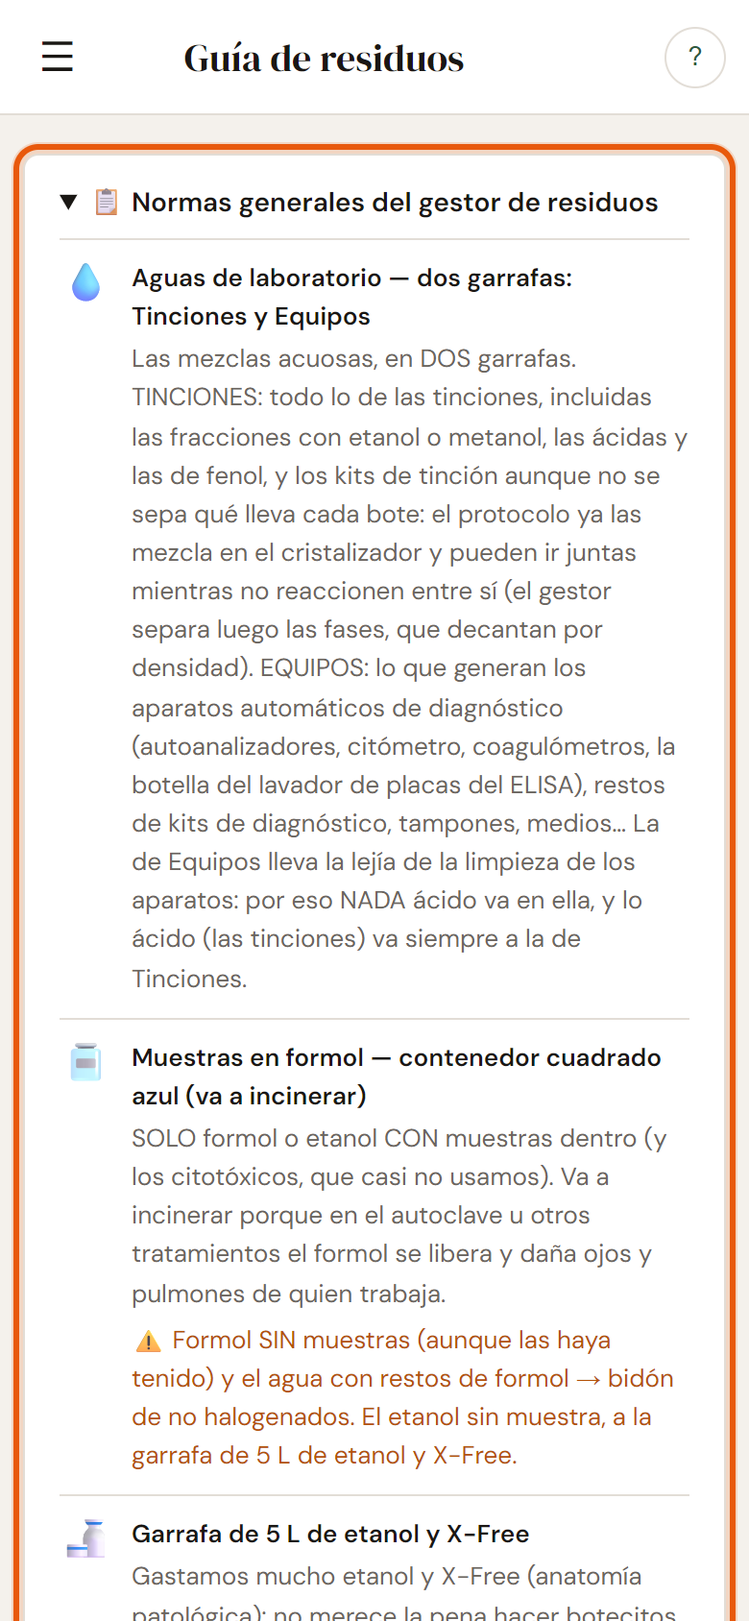
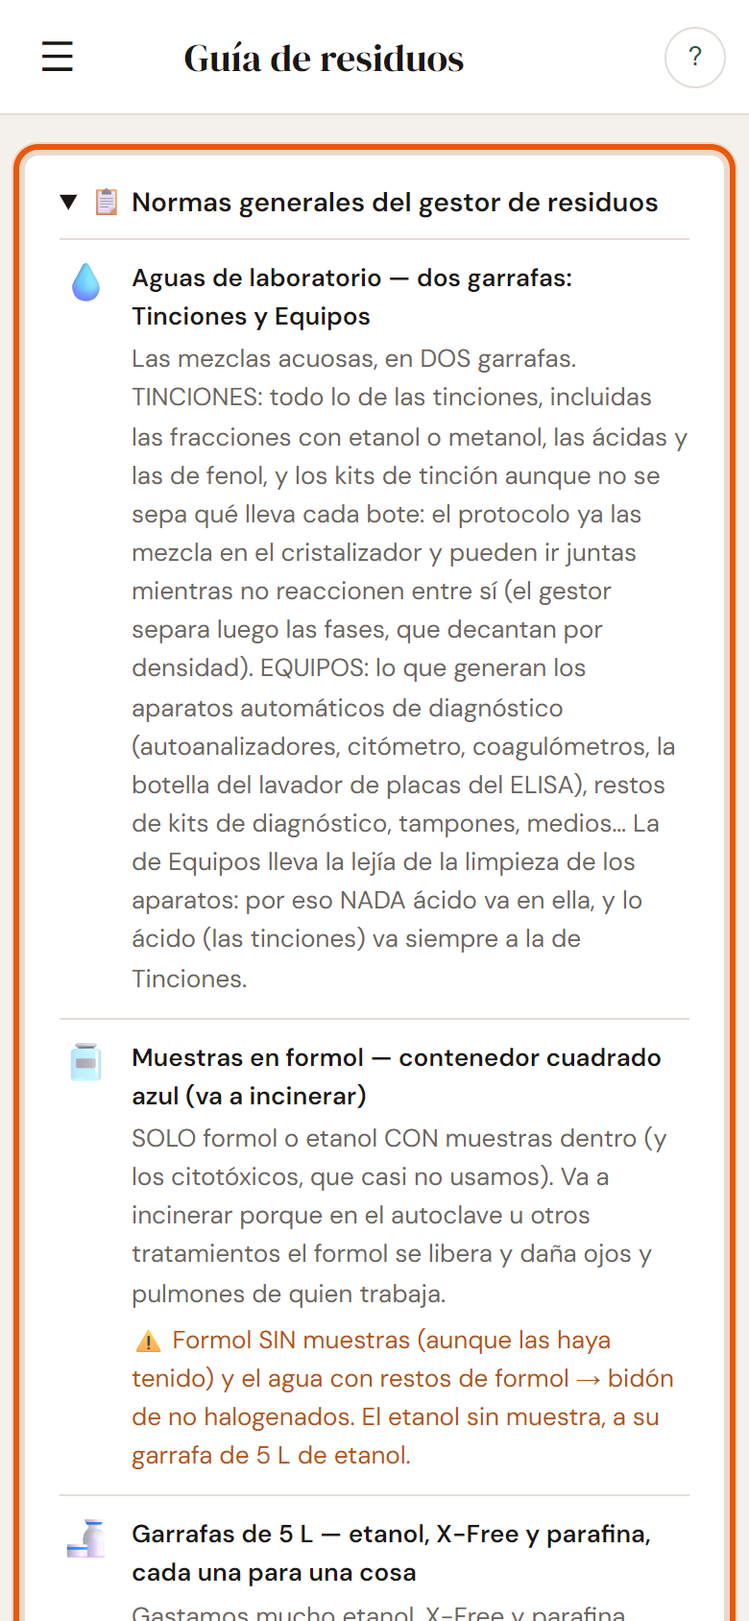
Residuos: tres garrafas de 5 L (etanol, X-Free, parafina) y punzantes en 203 y 207
Como las bolsas, cada garrafa es para una sola cosa. La parafina usada
deja el bidón de no halogenados y va a su garrafa. Datos ya aplicados;
capturas de RES-1 rehechas.

Changed region(s): [[0.1846, 0.8934, 0.8923, 1.0], [0.8308, 0.8626, 0.8923, 0.8934]]

diff --git a/js/residuos.js b/js/residuos.js
@@ -38,11 +38,11 @@ const _NORMAS_GESTOR = [
   {
     icon: '🫙', titulo: 'Muestras en formol — contenedor cuadrado azul (va a incinerar)',
     texto: 'SOLO formol o etanol CON muestras dentro (y los citotóxicos, que casi no usamos). Va a incinerar porque en el autoclave u otros tratamientos el formol se libera y daña ojos y pulmones de quien trabaja.',
-    ojo: 'Formol SIN muestras (aunque las haya tenido) y el agua con restos de formol → bidón de no halogenados. El etanol sin muestra, a la garrafa de 5 L de etanol y X-Free.',
+    ojo: 'Formol SIN muestras (aunque las haya tenido) y el agua con restos de formol → bidón de no halogenados. El etanol sin muestra, a su garrafa de 5 L de etanol.',
   },
   {
-    icon: '🍶', titulo: 'Garrafa de 5 L de etanol y X-Free',
-    texto: 'Gastamos mucho etanol y X-Free (anatomía patológica): no merece la pena hacer botecitos para los bidones. Sus restos se vierten juntos en garrafas de 5 L, las mismas en que viene el etanol, y se cierran con parafilm.',
+    icon: '🍶', titulo: 'Garrafas de 5 L — etanol, X-Free y parafina, cada una para una cosa',
+    texto: 'Gastamos mucho etanol, X-Free y parafina (anatomía patológica): no merece la pena hacer botecitos para los bidones. Sus restos se vierten en garrafas de 5 L, las mismas en que viene el etanol, y se cierran con parafilm. Como las bolsas, cada garrafa es para UNA sola cosa: una de etanol, otra de X-Free y otra de parafina; no se mezclan.',
     ojo: 'Solo valen garrafas con el símbolo UN (las del etanol); las de X-Free no sirven, son de un plástico peor.',
   },
   {
@@ -168,7 +168,7 @@ const _ARBOL_RESIDUOS = {
     opciones: [
       { texto: 'Sí, la muestra está dentro', hoja: 'Muestras en formol' },
       { texto: 'No, es solo el formol (aunque haya tenido muestra)', hoja: 'Bidón no halogenados' },
-      { texto: 'No, es solo el etanol (aunque haya tenido muestra)', hoja: 'Garrafa etanol y X-Free' },
+      { texto: 'No, es solo el etanol (aunque haya tenido muestra)', hoja: 'Garrafa 5 L - Etanol' },
     ],
   },
   solido: {
@@ -188,11 +188,19 @@ const _ARBOL_RESIDUOS = {
       { texto: '🎨 De una tinción (también los kits de tinción)', hoja: 'Aguas Laboratorio - Tinciones' },
       { texto: '🔬 De un aparato o kit de diagnóstico, tampones, medios, PCR…', hoja: 'Aguas Laboratorio - Equipos' },
       { texto: '🧽 Lejía diluida de limpiar', hoja: 'Fregadero' },
-      { texto: '🍶 Restos de etanol o de X-Free', hoja: 'Garrafa etanol y X-Free' },
+      { texto: '🍶 Restos de etanol, de X-Free o de parafina', ir: 'garrafa5' },
       { texto: '🧪 Otro disolvente: formol sin muestra, xilol, isopropanol, cloroformo…', ir: 'disolvente' },
       { texto: '⚗ Un ácido que no es de tinción', hoja: 'Bidón ácidos' },
       { texto: '🔥 Un oxidante: agua oxigenada, permanganato, ácido peryódico…', hoja: 'Reactivos de laboratorio' },
       { texto: '🤷 Otro reactivo / no lo sé', ir: 'dudo' },
+    ],
+  },
+  garrafa5: {
+    pregunta: '¿Qué es? Cada garrafa de 5 L es para una sola cosa.',
+    opciones: [
+      { texto: 'Etanol', hoja: 'Garrafa 5 L - Etanol' },
+      { texto: 'X-Free (aunque lleve restos de etanol)', hoja: 'Garrafa 5 L - X-Free' },
+      { texto: 'Parafina', hoja: 'Garrafa 5 L - Parafina' },
     ],
   },
   disolvente: {
@@ -217,9 +225,11 @@ const _ARBOL_HOJAS = {
   'Basura normal': { icon: '🗑', sinContenedor: true, porque: 'Solo lleva trazas fijadas: va a la basura normal. Los portas, bien protegidos para que nadie se corte; si no pueden ir a la basura, al contenedor amarillo de punzantes.' },
   'Residuo Cortante': { icon: '✂', porque: 'Contenedor amarillo de punzantes: todo lo que corta o pincha, esté contaminado o no.' },
   'Muestras en formol': { icon: '🫙', porque: 'Contenedor rígido azul, va a incinerar: muestras con su formol o etanol dentro (y los citotóxicos, que casi no usamos). En autoclave el formol se liberaría y dañaría ojos y pulmones, y un sólido dentro de un líquido revienta. La tapa se apoya, nunca se cierra del todo.' },
-  'Bidón no halogenados': { icon: '🧪', porque: 'Bidón de ballesta del 207 para disolventes no halogenados: el formol que ya no lleva la muestra, xilol, isopropanol… El etanol y el X-Free van a su garrafa de 5 L.' },
+  'Bidón no halogenados': { icon: '🧪', porque: 'Bidón de ballesta del 207 para disolventes no halogenados: el formol que ya no lleva la muestra, xilol, isopropanol… El etanol, el X-Free y la parafina van cada uno a su garrafa de 5 L.' },
   'Bidón halogenados': { icon: '🧪', porque: 'Bidón de ballesta del 207 para los disolventes con cloro (cloroformo, Carnoy…): van separados de los no halogenados.' },
-  'Garrafa etanol y X-Free': { icon: '🍶', porque: 'Gastamos mucho etanol y X-Free (anatomía patológica): sus restos se vierten juntos en garrafas de 5 L, cerradas con parafilm. Solo valen garrafas con el símbolo UN, como las del etanol; las de X-Free no (son de un plástico peor).' },
+  'Garrafa 5 L - Etanol': { icon: '🍶', porque: 'Garrafa de 5 L solo para restos de etanol, cerrada con parafilm. El X-Free y la parafina van cada uno a su garrafa. Solo valen garrafas con el símbolo UN, como las del etanol.' },
+  'Garrafa 5 L - X-Free': { icon: '🍶', porque: 'Garrafa de 5 L solo para restos de X-Free, cerrada con parafilm. Ojo: tiene que ser una garrafa de etanol (con el símbolo UN); la garrafa en que viene el X-Free no sirve, es de un plástico peor.' },
+  'Garrafa 5 L - Parafina': { icon: '🕯', porque: 'Garrafa de 5 L solo para la parafina usada, cerrada con parafilm. Los bloques con tejido y los cortes solo llevan trazas de X-Free: esos van a la basura normal.' },
   'Bidón vidrio vacío': { icon: '🍾', porque: 'Bidón de ballesta del 207 para envases de vidrio vacíos que contuvieron productos químicos. Los de plástico y los metálicos van a sus bolsas.' },
   'Bolsa químicos - Envases de plástico': { icon: '🛍', porque: 'La bolsa marcada con la X de «envases que contienen restos de sustancias peligrosas»: solo envases de plástico vacíos, bien cerrados para que no se acumule líquido en el fondo. Los metálicos y los guantes o papel van cada uno a su bolsa.' },
   'Bolsa químicos - Envases metálicos': { icon: '🥫', porque: 'La bolsa marcada con la X de «envases metálicos»: solo envases de aluminio (o de otro metal) vacíos, bien cerrados. Los de plástico van a la otra bolsa.' },
@@ -327,7 +337,7 @@ const VIDEOS_RESIDUOS = [
   { id: 'azul-y-negro', titulo: 'Contenedores azul y negro', inicio: 127.88,
     categorias: ['Muestras en formol', 'Contenedor negro (autoclave)'] },
   { id: 'etanol-y-xfree', titulo: 'Etanol y X-Free', inicio: 234.33,
-    categorias: ['Garrafa etanol y X-Free'] },
+    categorias: ['Garrafa 5 L - Etanol', 'Garrafa 5 L - X-Free', 'Garrafa 5 L - Parafina'] },
   { id: 'bolsa-207', titulo: 'La bolsa del 207', inicio: 301.26,
     categorias: ['Bolsa químicos - Envases de plástico', 'Bolsa químicos - Envases metálicos', 'Bolsa químicos - Guantes, papel y absorbentes'] },
   { id: 'punzantes', titulo: 'Contenedor amarillo de punzantes', inicio: 377.09,
@@ -1391,7 +1401,7 @@ de estos contenedores existen físicamente aunque no aparezcan en las listas de 
 activos de arriba — puedes nombrarlos por su descripción (color, forma, rótulo):
 ${_normasGestorTexto()}
 
-KITS DE TINCIÓN cuyos botes no se sabe qué llevan (todo acaba junto en el cristalizador): por defecto van a la garrafa de Tinciones. Pregunta antes qué kit/tinción es, y si en su ficha de seguridad aparece algo de esto, sepáralo: oxidantes (ácido peryódico, permanganato), ácido pícrico/Bouin o DAB → salvavidas "Reactivos de laboratorio"; xileno o formol (pasos del procesado, no tinción) → Bidón no halogenados; el X-Free → Garrafa etanol y X-Free. Los kits que lleven plata, mercurio o cromo/dicromato son kits diagnósticos y van también a la garrafa de Tinciones (decisión de Gestión, 2026-10).
+KITS DE TINCIÓN cuyos botes no se sabe qué llevan (todo acaba junto en el cristalizador): por defecto van a la garrafa de Tinciones. Pregunta antes qué kit/tinción es, y si en su ficha de seguridad aparece algo de esto, sepáralo: oxidantes (ácido peryódico, permanganato), ácido pícrico/Bouin o DAB → salvavidas "Reactivos de laboratorio"; xileno o formol (pasos del procesado, no tinción) → Bidón no halogenados; el X-Free → Garrafa 5 L - X-Free. Los kits que lleven plata, mercurio o cromo/dicromato son kits diagnósticos y van también a la garrafa de Tinciones (decisión de Gestión, 2026-10).
 
 REGLAS QUE NUNCA PUEDES SALTARTE (tanto si el caso está resuelto como si no):
 - Nunca digas que se puede verter por el desagüe ni tirar a la basura general, SALVO que el
@@ -1673,6 +1683,7 @@ function _abrirAdicionPorNfc(categoria, lab) {
     const DIVIDIDAS = {
       'Aguas Laboratorio': { prefijo: 'Aguas Laboratorio', que: 'garrafas de aguas (Tinciones y Equipos)' },
       'Bolsa plástica (químicos)': { prefijo: 'Bolsa químicos', que: 'bolsas de químicos (plástico, metálicos y guantes/papel)' },
+      'Garrafa etanol y X-Free': { prefijo: 'Garrafa 5 L', que: 'garrafas de 5 L (etanol, X-Free y parafina)' },
     };
     let c = DATA.contenedoresResiduo.find(x => x.Categoria === categoria && activo(x));
     const div = DIVIDIDAS[categoria];

diff --git a/supabase/functions/gestionar-residuo/index.ts b/supabase/functions/gestionar-residuo/index.ts
@@ -134,7 +134,7 @@ const GHS_INCOMPATIBLES: [string, string][] = [
 // granel en garrafa). En bidones azules, bolsas, cubos y punzantes cada cosa va en
 // su propio envase cerrado: ahí no hay reacción posible y la matriz bloqueaba sin
 // motivo (p. ej. etanol:éter en el salvavidas después de un permanganato).
-const CATEGORIAS_A_GRANEL = ["Aguas Laboratorio - Tinciones", "Aguas Laboratorio - Equipos", "Bidón no halogenados", "Bidón ácidos", "Bidón halogenados", "Garrafa etanol y X-Free"];
+const CATEGORIAS_A_GRANEL = ["Aguas Laboratorio - Tinciones", "Aguas Laboratorio - Equipos", "Bidón no halogenados", "Bidón ácidos", "Bidón halogenados", "Garrafa 5 L - Etanol", "Garrafa 5 L - X-Free", "Garrafa 5 L - Parafina"];
 function contenidoSeMezcla(categoria: string | null, formato: string | null): boolean {
   const f = (formato || "").toLowerCase();
   if (f.includes("garrafa")) return true;
@@ -192,8 +192,8 @@ const WARNINGS_FORMATO: { match: string; texto: string }[] = [
 // Normas generales del gestor de residuos (2026-10-01). Réplica de _NORMAS_GESTOR
 // en js/residuos.js (consultorio y tarjeta de la Guía): mantener las dos iguales.
 const NORMAS_GESTOR = `- Aguas de laboratorio: las mezclas acuosas, en DOS garrafas. TINCIONES: todo lo de las tinciones, incluidas las fracciones con etanol o metanol, las ácidas y las de fenol, y los kits de tinción aunque no se sepa qué lleva cada bote: el protocolo ya las mezcla en el cristalizador y pueden ir juntas mientras no reaccionen entre sí (el gestor separa luego las fases, que decantan por densidad). EQUIPOS: lo que generan los aparatos automáticos de diagnóstico (autoanalizadores, citómetro, coagulómetros, la botella del lavador de placas del ELISA), restos de kits de diagnóstico, tampones, medios… La de Equipos lleva la lejía de la limpieza de los aparatos: por eso NADA ácido va en ella, y lo ácido (las tinciones) va siempre a la de Tinciones.
-- Muestras en formol — contenedor cuadrado azul (va a incinerar): SOLO formol o etanol CON muestras dentro (y los citotóxicos, que casi no usamos). Va a incinerar porque en el autoclave u otros tratamientos el formol se libera y daña ojos y pulmones de quien trabaja. OJO: Formol SIN muestras (aunque las haya tenido) y el agua con restos de formol → bidón de no halogenados ("Bidón no halogenados"). El etanol sin muestra, a la garrafa de 5 L de etanol y X-Free.
-- Garrafa de 5 L de etanol y X-Free ("Garrafa etanol y X-Free"): gastamos mucho etanol y X-Free (anatomía patológica): no merece la pena hacer botecitos para los bidones. Sus restos se vierten juntos en garrafas de 5 L, las mismas en que viene el etanol, y se cierran con parafilm. OJO: solo valen garrafas con el símbolo UN (las del etanol); las de X-Free no sirven, son de un plástico peor.
+- Muestras en formol — contenedor cuadrado azul (va a incinerar): SOLO formol o etanol CON muestras dentro (y los citotóxicos, que casi no usamos). Va a incinerar porque en el autoclave u otros tratamientos el formol se libera y daña ojos y pulmones de quien trabaja. OJO: Formol SIN muestras (aunque las haya tenido) y el agua con restos de formol → bidón de no halogenados ("Bidón no halogenados"). El etanol sin muestra, a su garrafa de 5 L de etanol ("Garrafa 5 L - Etanol").
+- Garrafas de 5 L — etanol, X-Free y parafina, cada una para una cosa ("Garrafa 5 L - Etanol", "Garrafa 5 L - X-Free", "Garrafa 5 L - Parafina"): gastamos mucho etanol, X-Free y parafina (anatomía patológica): no merece la pena hacer botecitos para los bidones. Sus restos se vierten en garrafas de 5 L, las mismas en que viene el etanol, y se cierran con parafilm. Como las bolsas, cada garrafa es para UNA sola cosa: una de etanol, otra de X-Free y otra de parafina; no se mezclan. OJO: solo valen garrafas con el símbolo UN (las del etanol); las de X-Free no sirven, son de un plástico peor.
 - Bidón de envases de vidrio vacíos ("Bidón vidrio vacío"): bidón de ballesta del 207 para los envases de vidrio vacíos que contuvieron productos químicos.
 - Bolsas de químicos — tres bolsas, cada una para una cosa: las bolsas son iguales, pero cada una se marca con una X en su etiqueta para UNA sola cosa: (1) envases de plástico vacíos que contuvieron sustancias peligrosas ("Bolsa químicos - Envases de plástico"); (2) envases metálicos (aluminio) vacíos que las contuvieron ("Bolsa químicos - Envases metálicos"); (3) guantes, papel, filtros, absorbentes, ropa de protección… manchados con sustancias peligrosas ("Bolsa químicos - Guantes, papel y absorbentes"). La casilla de decapado y pintura no nos toca. OJO: mira la X antes de echar nada: la misma bolsa NO vale para las tres cosas. Que NO se acumule líquido en el fondo: los frascos, botellas y botes, bien cerrados. Los guantes o el papel manchados de disolventes volátiles, antes en una bolsa zip (la bolsa va abierta). Un guante que no ha tocado nada peligroso no va aquí.
 - Cómo reconocer los contenedores por el color: contenedores rígidos que se cierran para siempre: NEGROS → van a autoclavar; AZULES del mismo estilo → van a incinerar. Los AZULES DE BALLESTA y las BOLSAS → químicos.
@@ -206,11 +206,13 @@ const NORMAS_GESTOR = `- Aguas de laboratorio: las mezclas acuosas, en DOS garra
 const MOTIVO_CATEGORIA: Record<string, string> = {
   "Aguas Laboratorio - Tinciones": "La garrafa de Tinciones recoge todo lo de las tinciones, que suele ser ácido: por eso no va con la de Equipos, que lleva lejía.",
   "Aguas Laboratorio - Equipos": "La garrafa de Equipos recoge lo que generan los aparatos de diagnóstico (incluida la botella del lavador del ELISA), kits y tampones; lleva la lejía de su limpieza, así que nada ácido.",
-  "Bidón no halogenados": "El bidón de no halogenados recoge los disolventes sin cloro, también el formol sin muestra; el etanol y el X-Free van a su garrafa de 5 L.",
+  "Bidón no halogenados": "El bidón de no halogenados recoge los disolventes sin cloro, también el formol sin muestra; el etanol, el X-Free y la parafina van cada uno a su garrafa de 5 L.",
   "Bidón halogenados": "El bidón de halogenados es solo para disolventes con cloro (cloroformo, Carnoy…).",
   "Bidón ácidos": "El bidón de ácidos recoge los ácidos que no son de tinción.",
   "Bidón vidrio vacío": "El bidón de vidrio es solo para envases de vidrio vacíos que contuvieron productos químicos.",
-  "Garrafa etanol y X-Free": "La garrafa de 5 L es solo para restos de etanol y de X-Free.",
+  "Garrafa 5 L - Etanol": "Esta garrafa de 5 L es solo para restos de etanol; el X-Free y la parafina van cada uno a su garrafa.",
+  "Garrafa 5 L - X-Free": "Esta garrafa de 5 L es solo para restos de X-Free; el etanol y la parafina van cada uno a su garrafa.",
+  "Garrafa 5 L - Parafina": "Esta garrafa de 5 L es solo para la parafina usada; el etanol y el X-Free van cada uno a su garrafa.",
   "Contenedor negro (autoclave)": "El contenedor negro, con bolsa de autoclave, es para residuos biosanitarios: cultivos, muestras, material que las tocó y ropa o EPI con sangre.",
   "Muestras en formol": "El contenedor cuadrado azul es SOLO para formol o etanol con la muestra dentro: va a incinerar.",
   "Bolsa químicos - Envases de plástico": "Esta bolsa está marcada solo para envases de plástico vacíos que contuvieron químicos; los metálicos y los guantes o papel van cada uno a su bolsa.",
@@ -291,7 +293,7 @@ ${excepciones}
 NORMAS GENERALES DEL GESTOR DE RESIDUOS (acordadas con la empresa gestora; para juzgar un texto libre mandan sobre lo que sugiera el catálogo; algunos de estos contenedores existen aunque no estén en la lista de activos):
 ${NORMAS_GESTOR}
 
-KITS DE TINCIÓN cuyos botes no se sabe qué llevan (todo acaba junto en el cristalizador): por defecto van a la garrafa de Tinciones. Pregunta antes qué kit/tinción es, y si en su ficha de seguridad aparece algo de esto, sepáralo: oxidantes (ácido peryódico, permanganato), ácido pícrico/Bouin o DAB → salvavidas "Reactivos de laboratorio"; xileno o formol (pasos del procesado, no tinción) → Bidón no halogenados; el X-Free → Garrafa etanol y X-Free. Los kits que lleven plata, mercurio o cromo/dicromato son kits diagnósticos y van también a la garrafa de Tinciones (decisión de Gestión, 2026-10).
+KITS DE TINCIÓN cuyos botes no se sabe qué llevan (todo acaba junto en el cristalizador): por defecto van a la garrafa de Tinciones. Pregunta antes qué kit/tinción es, y si en su ficha de seguridad aparece algo de esto, sepáralo: oxidantes (ácido peryódico, permanganato), ácido pícrico/Bouin o DAB → salvavidas "Reactivos de laboratorio"; xileno o formol (pasos del procesado, no tinción) → Bidón no halogenados; el X-Free → Garrafa 5 L - X-Free. Los kits que lleven plata, mercurio o cromo/dicromato son kits diagnósticos y van también a la garrafa de Tinciones (decisión de Gestión, 2026-10).
 
 REGLAS:
 - El residuo debe corresponder a la categoría del contenedor de destino. Si es un tipo del catálogo cuyo "Contenedor asignado" NO coincide con la categoría del contenedor de destino, es INCOMPATIBLE (salvo que esté en los casos aprobados de arriba).

diff --git a/scripts/garrafas_y_punzantes_2026_11.py b/scripts/garrafas_y_punzantes_2026_11.py
@@ -1,0 +1,82 @@
+"""
+Garrafas de 5 L y punzantes (2026-11-26, indicaciones de la usuaria).
+
+1. Las garrafas de 5 L son como las bolsas: cada una es para UNA cosa. La
+   categoría «Garrafa etanol y X-Free» se divide en tres:
+     Garrafa 5 L - Etanol / Garrafa 5 L - X-Free / Garrafa 5 L - Parafina
+   La garrafa que ya estaba dada de alta (207, bajo la encimera) pasa a ser la de
+   etanol y se dan de alta las otras dos en el mismo sitio. La «Parafina con restos
+   de X-Free» (antes en el bidón de no halogenados) va a la de parafina.
+2. Contenedores amarillos de punzantes («Residuo Cortante») en los labs 203 y 207.
+
+Idempotente. Uso:
+  python scripts/garrafas_y_punzantes_2026_11.py            (simulación)
+  python scripts/garrafas_y_punzantes_2026_11.py --aplicar  (guarda)
+"""
+import sys, datetime
+sys.path.insert(0, 'scripts')
+from base import conectar, generar_id
+
+DRY_RUN = "--aplicar" not in sys.argv   # simulación por defecto
+
+ANTES = 'Garrafa etanol y X-Free'
+ETANOL, XFREE, PARAFINA = 'Garrafa 5 L - Etanol', 'Garrafa 5 L - X-Free', 'Garrafa 5 L - Parafina'
+CORTANTE = 'Residuo Cortante'
+
+TIPOS = {  # id_residuo → (categoría, descripción nueva o None)
+    'R015': (ETANOL, None),
+    'R016': (XFREE, None),
+    'R001': (PARAFINA, 'Parafina usada, con restos de sustituto de xileno (X-Free), tras el procesado histológico. '
+                       'Va a su garrafa de 5 L; los bloques con tejido y los cortes van a la basura normal.'),
+}
+NUEVOS = [  # (categoría, lab, zona, formato)
+    (XFREE, '207', 'Bajo la encimera', 'Garrafa 5L'),
+    (PARAFINA, '207', 'Bajo la encimera', 'Garrafa 5L'),
+    (CORTANTE, '203', None, 'Contenedor rígido amarillo'),
+    (CORTANTE, '207', None, 'Contenedor rígido amarillo'),
+]
+
+conn = conectar(); cur = conn.cursor()
+cambios = 0
+
+def hacer(msg, sql, args):
+    global cambios
+    print(msg); cambios += 1
+    if not DRY_RUN:
+        cur.execute(sql, args)
+
+for tabla, col in (('contenedores_residuo', 'categoria'), ('excepciones_residuo_ia', 'categoria_contenedor')):
+    cur.execute(f"select count(*) from {tabla} where {col}=%s", (ANTES,))
+    n = cur.fetchone()[0]
+    if n:
+        hacer(f"{tabla}: {n} × «{ANTES}» → «{ETANOL}»", f"update {tabla} set {col}=%s where {col}=%s", (ETANOL, ANTES))
+
+for id_, (cat, desc) in TIPOS.items():
+    cur.execute("select nombre, contenedor_tipo, descripcion from tipos_residuo where id_residuo=%s", (id_,))
+    fila = cur.fetchone()
+    if not fila: print(f"⚠ NO ENCONTRADO: {id_}"); continue
+    if fila[1] == cat and (desc is None or fila[2] == desc): continue
+    hacer(f"{id_}  {fila[0]}  [{fila[1]} → {cat}]{'  (+descripción)' if desc else ''}",
+          "update tipos_residuo set contenedor_tipo=%s, descripcion=coalesce(%s, descripcion) where id_residuo=%s",
+          (cat, desc, id_))
+
+cur.execute("select count(*) from tipos_residuo where contenedor_tipo=%s", (ANTES,))
+n = cur.fetchone()[0]
+if n: print(f"⚠ quedan {n} tipos en «{ANTES}» sin garrafa asignada")
+
+hoy = datetime.date.today()
+for cat, lab, zona, formato in NUEVOS:
+    cur.execute("select 1 from contenedores_residuo where categoria=%s and lab=%s and estado='activo'", (cat, lab))
+    if cur.fetchone(): continue
+    hacer(f"+ contenedor  {cat}  lab {lab} · {zona or '—'} · {formato}",
+          """insert into contenedores_residuo
+             (id_contenedor, categoria, lab, zona, formato, nivel, estado, fecha_apertura, fecha_actualizacion, actualizado_por)
+             values (%s,%s,%s,%s,%s,'vacío','activo',%s,now(),'Paloma Fernández')""",
+          (generar_id('RC'), cat, lab, zona, formato, hoy))
+
+if DRY_RUN:
+    conn.rollback()
+    print(f"\nSIMULACIÓN: {cambios} cambios. Ejecuta con --aplicar para guardarlos.")
+else:
+    conn.commit()
+    print(f"\nGuardado: {cambios} cambios.")

diff --git a/scripts/contenedores_reales_2026_11.py b/scripts/contenedores_reales_2026_11.py
@@ -20,6 +20,9 @@ Ajusta las categorías y los contenedores de residuos a los contenedores reales
 No toca las garrafas de colorantes ni los de punzantes (no consta en qué
 laboratorios hay): se dan de alta desde la app.
 
+⚠ NO volver a ejecutarlo: la garrafa de etanol y X-Free se dividió en tres después
+(garrafas_y_punzantes_2026_11.py) y este script la volvería a crear.
+
 Idempotente. Uso:
   python scripts/contenedores_reales_2026_11.py            (simulación)
   python scripts/contenedores_reales_2026_11.py --aplicar  (guarda)

diff --git a/CLAUDE.md b/CLAUDE.md
@@ -64,7 +64,7 @@ ya no lo usa nada; se puede revocar si se quiere.
 - `reorganizar_ubicaciones_2026_11.py` — recolocación (una vez, ya ejecutada el 2026-11-25) de los textos de `ubicaciones` en dos ideas: `zona` = **Localización** («Izquierda · 2º cajón», el primer tramo agrupa), `subzona` = **Uso / contenido** («Micropipetas»), `descripcion_completa` = **Observaciones**. Ver «Ubicaciones» en `docs/patrones-ui.md`. Simulación por defecto, `--aplicar` para guardar (deja copia CSV en `scripts/copias/`)
 - `homogeneizar_ubicaciones_2026_11.py` — aplica a todas las ubicaciones el criterio del texto de un sitio («código – zona · localización · contenido»: la localización solo dónde está; apodos como «Reactivos» al contenido; ver «Ubicaciones» en `docs/patrones-ui.md`). Ejecutado el 2026-11-25 (14 cambios: armarios de la zona común, 205-AUTOCLAVES, mayúsculas y una errata), idempotente; simulación por defecto, `--aplicar` para guardar (copia CSV en `scripts/copias/`)
 - `recolocar_residuos_2026_10.py` — recolocación (una vez, ya ejecutada) del catálogo de residuos según las normas del gestor de 2026-10-01; simulación por defecto, `--aplicar` para guardar. ⚠ No volver a ejecutarlo (deshace lo de 2026-11)
-- `dividir_bolsa_quimicos_2026_11.py` y `contenedores_reales_2026_11.py` — ajuste (una vez, ya ejecutado el 2026-11-26) de las categorías de residuos a los contenedores reales: tres bolsas de químicos, bidones con nombre de bidón, contenedor negro único, garrafa de etanol y X-Free, bidón de vidrio. Ver «Contenedores reales» en `docs/modulo-residuos.md`
+- `dividir_bolsa_quimicos_2026_11.py`, `contenedores_reales_2026_11.py` y `garrafas_y_punzantes_2026_11.py` — ajuste (una vez, ya ejecutado el 2026-11-26) de las categorías de residuos a los contenedores reales: tres bolsas de químicos, bidones con nombre de bidón, contenedor negro único, tres garrafas de 5 L (etanol, X-Free, parafina), bidón de vidrio, punzantes en 203 y 207. Ver «Contenedores reales» en `docs/modulo-residuos.md`
 - `cargar_verificacion_micropipetas.py` — carga `verificacion_micropipetas.csv` (carpeta de protocolos) en `verif_pipetas_parametros`: volúmenes, método y límites de verificación de cada pipeta. No pisa lo que decide el laboratorio desde la app (tornillo de ajuste, volumen bajo de PIP-005). Simulación por defecto, `--aplicar` para guardar; ejecutar cada vez que el chat regenere el CSV
 - `recargar_protocolos_planes.py` — recarga `equipos.protocolo_uso` y los planes de mantenimiento desde `protocolos.jsonl` / `mantenimientos.jsonl` de la carpeta de protocolos: los planes activos pasan a inactivos (nunca se borran), los equipos «Dado de baja» no reciben planes, los registros de planes activos pasan al plan nuevo de la misma periodicidad (si alguno no tiene equivalente, no escribe nada) y guarda antes una copia CSV en esa carpeta. Con `--en-sitio` no crea ni desactiva planes: solo reescribe protocolos e `instrucciones` en el plan activo que ya existe (mismo equipo y periodicidad), para cuando únicamente cambian los pasos; se para si cambia otra cosa. Con `--solo=<archivo.csv>` (p. ej. `--solo=verificacion_micropipetas.csv`) solo recarga los equipos de la primera columna de ese CSV y deja el resto del JSONL sin tocar. Simulación por defecto, `--aplicar` para guardar
 - `asignar_tandas_calibracion.py` — escribe `planes_mantenimiento.curso_inicio` (primer curso de la calibración externa quinquenal) en cada plan «Calibración externa» desde `calibracion_externa_tandas.csv` (carpeta de protocolos); lo que no esté en la lista va a la tanda de su modelo y se lista. Ejecutado el 2026-11-25 (109 planes), idempotente; simulación por defecto, `--aplicar` para guardar. Ver «Tandas» en `docs/modulo-mantenimiento.md`

diff --git a/docs/modulo-residuos.md b/docs/modulo-residuos.md
@@ -94,12 +94,12 @@ absorbentes`; las tres en el 207, Almacén de residuos, formato `Bolsa plástica
 |---|---|
 | `Aguas Laboratorio - Tinciones` | garrafa de colorantes, en cada laboratorio (hoy 203, 205, 207) |
 | `Aguas Laboratorio - Equipos` | garrafa de lejías y residuos de equipos, solo en el 203 |
-| `Garrafa etanol y X-Free` | garrafas de 5 L con símbolo UN (las del etanol), cerradas con parafilm, bajo la encimera |
+| `Garrafa 5 L - Etanol` / `- X-Free` / `- Parafina` | garrafas de 5 L con símbolo UN (las del etanol), cerradas con parafilm, bajo la encimera; como las bolsas, **una por cosa** (`garrafas_y_punzantes_2026_11.py`) |
 | `Bidón vidrio vacío` / `Reactivos de laboratorio` / `Bidón no halogenados` / `Bidón ácidos` / `Bidón halogenados` | bidones azules de ballesta (antes `Contenedor Inertes/Ácidos/Halogenados`) |
 | `Muestras en formol` | contenedor rígido azul, a incinerar (también los citotóxicos; el contenedor estaba como «Citotóxicos») |
 | `Contenedor negro (autoclave)` | contenedor rígido negro con bolsa de autoclave, al autoclave del gestor (une las antiguas `Bolsa de autoclave` y `Residuo Biológico GII`) |
 | `Bolsa químicos - …` (3) | ver arriba |
-| `Residuo Cortante` | contenedor amarillo de punzantes (aún sin dar de alta: no consta en qué labs hay) |
+| `Residuo Cortante` | contenedor amarillo de punzantes, en el 203 y en el 207 |
 
 «Aguas de laboratorio» es el nombre genérico de las garrafas, no un contenedor. Etiquetas NFC
 con los nombres antiguos: `RENOMBRADAS` en `_abrirAdicionPorNfc` las traduce.
